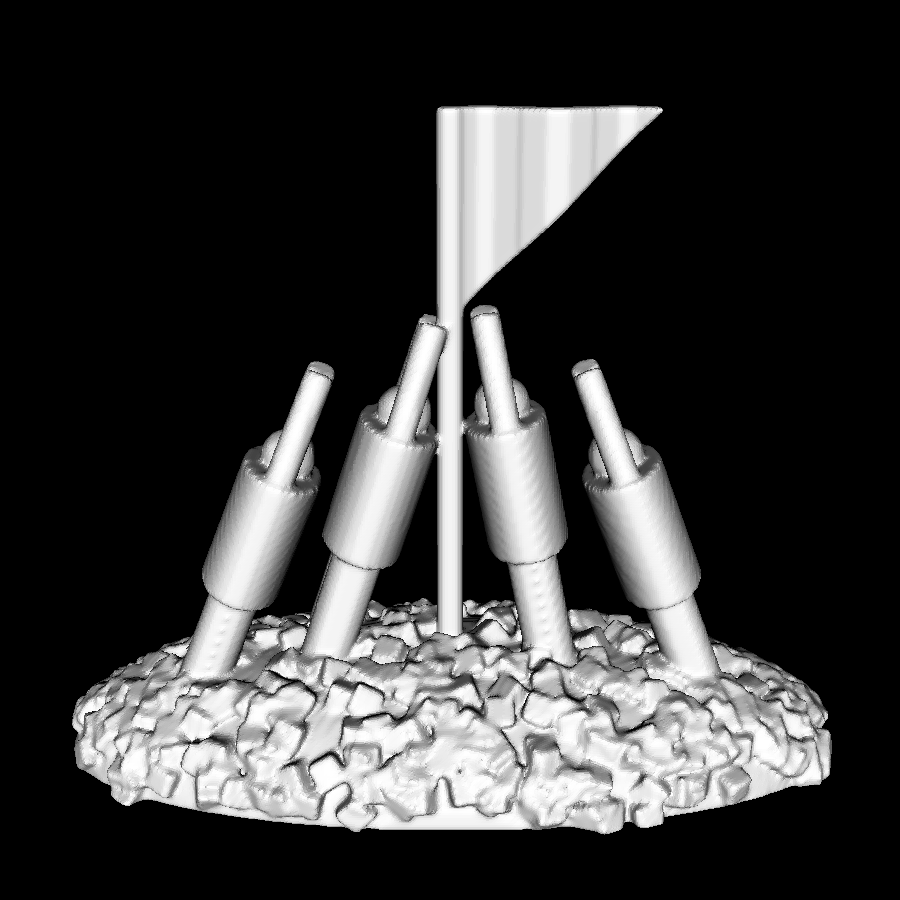
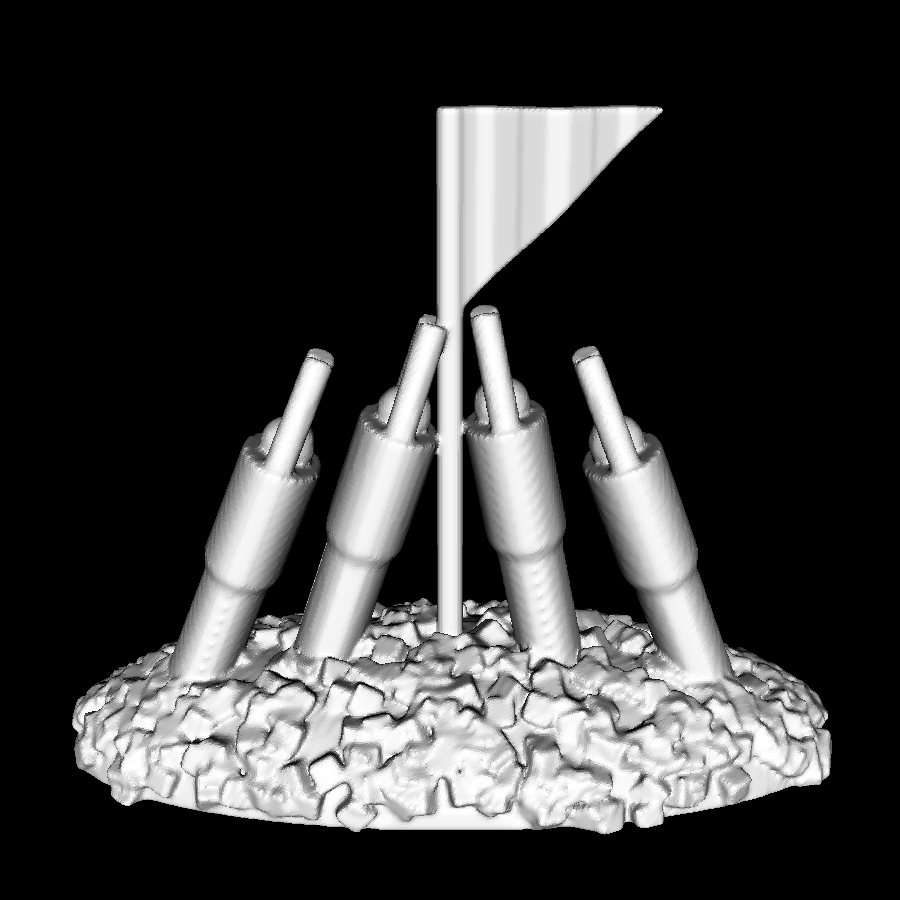
statue: print without supports

Changed region(s): [[0.1867, 0.3733, 0.4356, 0.7778], [0.5289, 0.3733, 0.8089, 0.7778]]

diff --git a/examples/parody/flag_statue/person.go b/examples/parody/flag_statue/person.go
@@ -1,6 +1,8 @@
 package main
 
 import (
+	"math"
+
 	"github.com/unixpickle/model3d"
 )
 
@@ -8,13 +10,14 @@ const (
 	PersonRadius = 1.0
 	PersonHeight = 3.0
 
-	PersonTorsoHeight    = 1.0
+	PersonTorsoHeight    = 0.9
 	PersonTorsoWidth     = 0.5
 	PersonTorsoThickness = 0.3
 
-	PersonLegHeight = 1.0
-	PersonLegRadius = 0.18
-	PersonLegSpace  = 0.23
+	PersonLegHeight   = 1.1
+	PersonLegSpace    = 0.1
+	PersonWaistInset  = 0.05
+	PersonWaistHeight = 0.1
 
 	PersonArmHeight   = 0.8
 	PersonArmRadius   = 0.1
@@ -32,7 +35,7 @@ func GeneratePeople() model3d.Solid {
 			model3d.Coord3D{X: -0.2, Z: 1},
 		)),
 		model3d.CacheSolidBounds(NewPersonSolid(
-			model3d.Coord3D{X: 2, Z: 0.5},
+			model3d.Coord3D{X: 2, Z: 0.6},
 			model3d.Coord3D{X: -0.38, Z: 1},
 		)),
 		model3d.CacheSolidBounds(NewPersonSolid(
@@ -40,7 +43,7 @@ func GeneratePeople() model3d.Solid {
 			model3d.Coord3D{X: 0.33, Z: 1},
 		)),
 		model3d.CacheSolidBounds(NewPersonSolid(
-			model3d.Coord3D{X: -2, Z: 0.5},
+			model3d.Coord3D{X: -2, Z: 0.6},
 			model3d.Coord3D{X: 0.4, Z: 1},
 		)),
 	}
@@ -81,11 +84,25 @@ func (p *PersonSolid) Contains(c model3d.Coord3D) bool {
 
 	if c.Z < 0 {
 		return false
-	} else if c.Z < PersonLegHeight {
-		return c2.Sub(model3d.Coord2D{X: -PersonLegSpace}).Norm() < PersonLegRadius ||
-			c2.Sub(model3d.Coord2D{X: PersonLegSpace}).Norm() < PersonLegRadius
-	} else if c.Z < PersonLegHeight+PersonTorsoHeight {
-		return c2.Mul(model3d.Coord2D{X: 1 / PersonTorsoWidth, Y: 1 / PersonTorsoThickness}).Norm() < 1
+	}
+	if c.Z < PersonLegHeight+PersonTorsoHeight {
+		var inset float64
+		if c.Z < PersonLegHeight {
+			inset = math.Max(0, math.Min(PersonWaistHeight, PersonLegHeight-c.Z)) *
+				PersonWaistInset / PersonWaistHeight
+		}
+		cylinderParams := model3d.Coord2D{
+			X: 1 / (PersonTorsoWidth - inset),
+			Y: 1 / (PersonTorsoThickness - inset),
+		}
+		if c2.Mul(cylinderParams).Norm() >= 1 {
+			return false
+		}
+		if c.Z < PersonLegHeight {
+			gap := math.Min(PersonLegSpace, PersonLegHeight-c.Z)
+			return math.Abs(c.X) >= gap
+		}
+		return true
 	}
 
 	topSolid := model3d.JoinedSolid{
